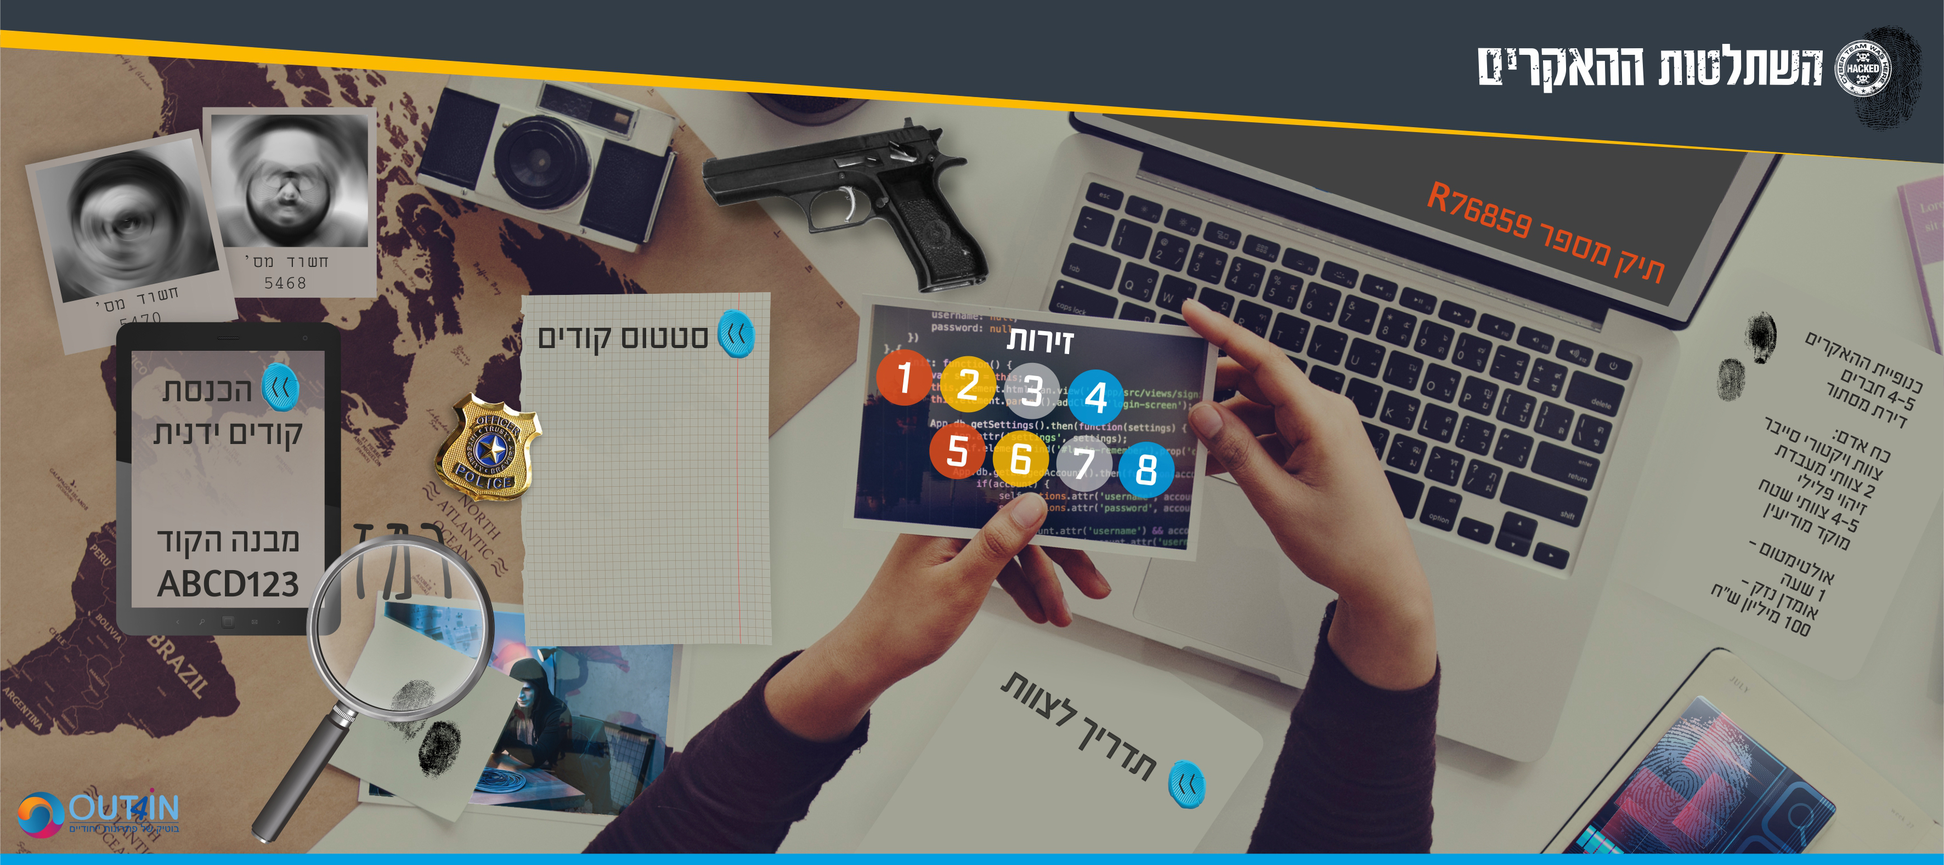
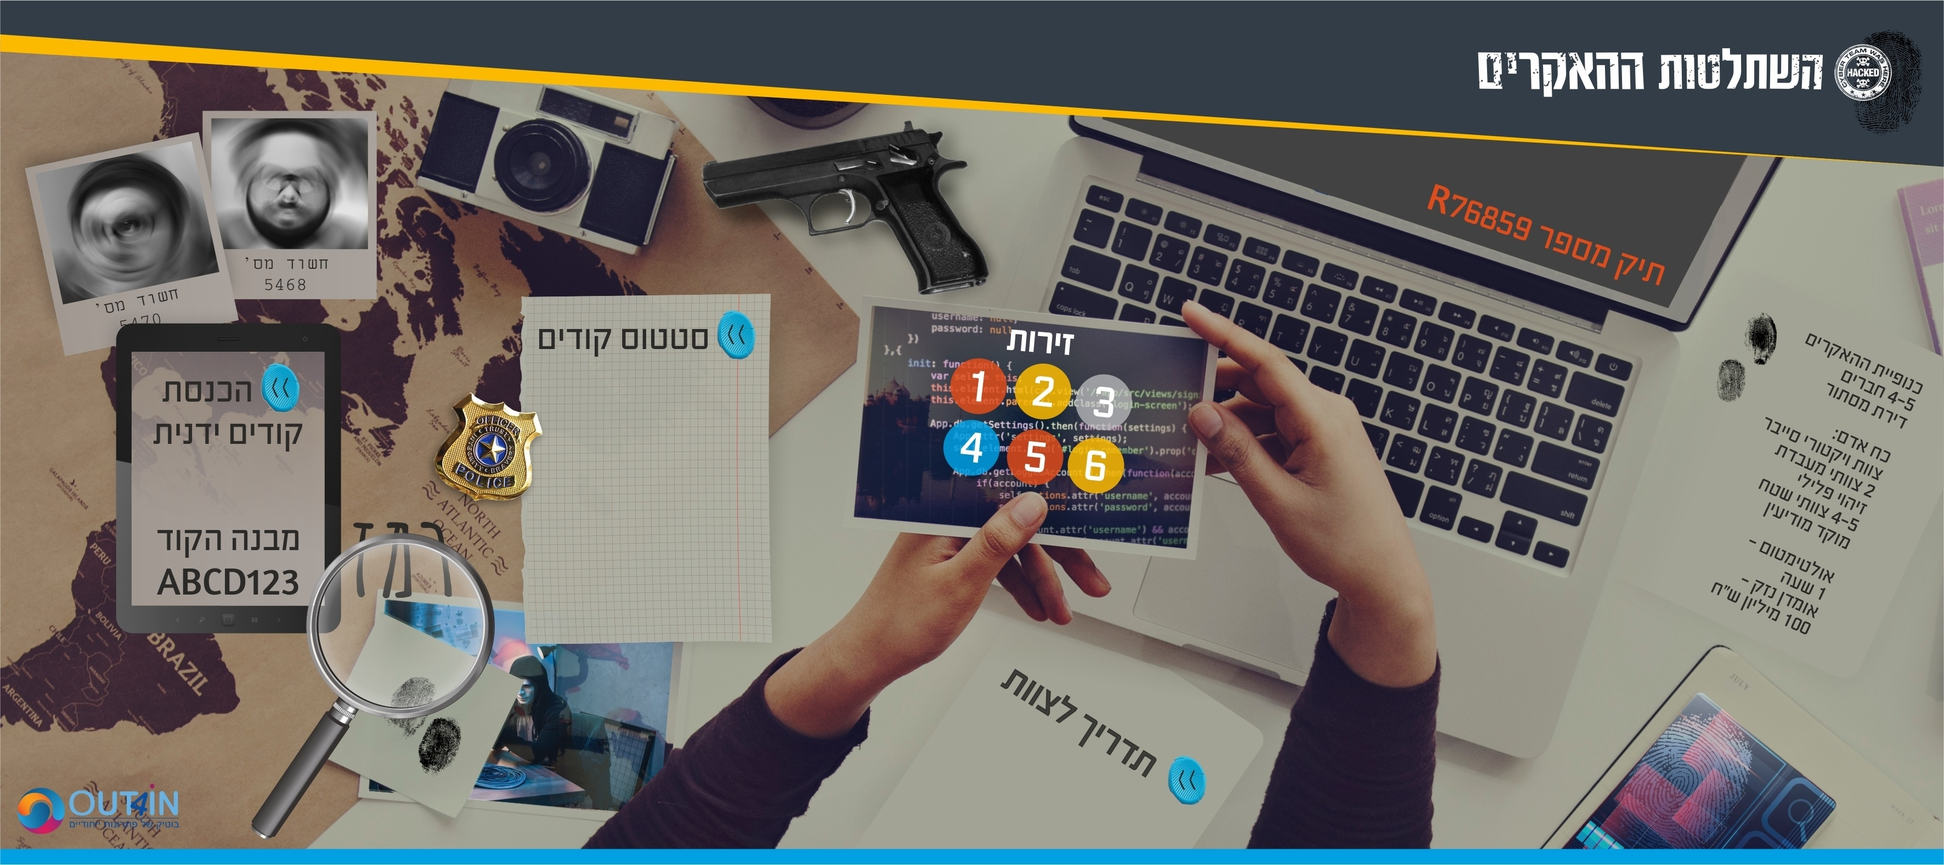
text fixes

diff --git a/onlinear/EscapeZone_Short/Station_6/index.html b/onlinear/EscapeZone_Short/Station_6/index.html
@@ -54,6 +54,49 @@
                 right: 15%;
                 font-size: 5vh;
             }
+            
+            /* The Modal (The text box instead of the basic alert) */
+            .modal {
+                display: none; /* Hidden by default */
+                position: fixed; /* Stay in place */
+                z-index: 1; /* Sit on top */
+                padding-top: 100px; /* Location of the box */
+                left: 0;
+                top: 0;
+                width: 100%; /* Full width */
+                height: 100%; /* Full height */
+                overflow: auto; /* Enable scroll if needed */
+                background-color: rgb(0,0,0); /* Fallback color */
+                background-color: rgba(0,0,0,0.4); /* Black w/ opacity */
+                direction: rtl;
+            }
+
+            /* Modal Content */
+            .modal-content {
+                background-color: #fefefe;
+                margin: auto;
+                padding: 20px;
+                border: 1px solid #888;
+                width: 80%;
+                color: red;
+                font-size: 7.5vh;
+                text-align: center;
+            }
+
+            /* The Close Button */
+            .close {
+                color: #000;
+                float: right;
+                font-size: 9vh;
+                font-weight: bolder;
+            }
+
+            .close:hover,
+            .close:focus {
+                color: #000;
+                text-decoration: none;
+                cursor: pointer;
+            }
         </style>
         <script type="application/javascript">
             localStorage.setItem("reloaded", "false");
@@ -63,7 +106,7 @@
             {
                 var s = "";
                 var val = "";
-                for(var i = 1; i <= 6; i++)
+                for(var i = 1; i <= 8; i++)
                 {
                     s = "for_" + i;
                     val = localStorage.getItem(s);
@@ -196,10 +239,15 @@
             
             function OfferHint()
             {
-                var answer = confirm("ראינו שאתם מתקשים, האם אתם רוצים עזרה?");
+                document.getElementById("myModal").style.display = "block";
+                
+                var clockImg = document.getElementById("clockImg");
+                clockImg.style.display = "none";
+                
+                /*var answer = confirm("ראינו שאתם מתקשים, האם אתם רוצים עזרה?");
                 if(answer)
                 {
-                     var clockImg = document.getElementById("clockImg");
+                    var clockImg = document.getElementById("clockImg");
                     clockImg.style.display = "none";
                     setTimeout(function(){          //To remove image before alert.
                         alert("הספרה השניה (גלגל צהוב) היא 9 – מהי הספרה השלישית? ");
@@ -208,7 +256,7 @@
                 else
                 {
                     setTimeout(OfferHint, 60000);
-                }
+                }*/
             }
             
             function Start()
@@ -234,8 +282,7 @@
                 כמו בתמונה המצורפת - הסכום המשותף הוא 8.<br/>
                 <img src = "img.png" width = "24%" height="35%"><br/>
                 
-                לתיבת הקוד למטה עליכם להכניס את שלושת המספרים בשלשה שמסומנת בחץ שחור ומתחילה בספרה 6  על הגלגל האדום.<br/>
-                כאשר תכניסו את שתי הספרות הנוספות תקבלו את קוד הזירה. <br/>
+                <font color = "red" style="font-weight: bold">עליכם להכניס לתיבת הקוד למטה את שלושת המספרים בשלשה שמסומנת בחץ שחור ומתחילה בספרה 6 על הגלגל האדום.</font><br/>
 
                 <br/><u>רוצים רמז למספר המשותף?</u><br/>
                 לחצו על האייקון של ראש הרובוט ! <a href = "../RobotsGame/enter.html"><img src = "robot.png" width = "14%" height="16%"></a>
@@ -275,6 +322,37 @@
             </div>
         </div>
         
+        <!-- The Modal -->
+        <div id="myModal" class="modal">
+
+          <!-- Modal content -->
+          <div class="modal-content">
+            <span class="close">&times;</span>
+            <p>
+                <font color = "black">רמז: </font><br/>
+                <font size = "6"  style = "font-weight: bold;">הספרה השניה (גלגל צהוב) היא 9 – מהי הספרה השלישית?</font>
+            </p>
+          </div>
+
+        </div>
+        
+        <script>
+            //The modal script
+            var modal = document.getElementById('myModal');
+            var span = document.getElementsByClassName("close")[0];
+            var modal_text = modal.querySelector('p');
+            
+            span.onclick = function() {
+                modal.style.display = "none";
+            }
+
+            // When the user clicks anywhere outside of the modal, close it
+            window.onclick = function(event) {
+                if (event.target == modal) {
+                    modal.style.display = "none";
+                }
+            }
+        </script>
         
         <script>
             /*

diff --git a/onlinear/EscapeZone_Long/Station_6/index.html b/onlinear/EscapeZone_Long/Station_6/index.html
@@ -54,6 +54,49 @@
                 right: 15%;
                 font-size: 5vh;
             }
+            
+            /* The Modal (The text box instead of the basic alert) */
+            .modal {
+                display: none; /* Hidden by default */
+                position: fixed; /* Stay in place */
+                z-index: 1; /* Sit on top */
+                padding-top: 100px; /* Location of the box */
+                left: 0;
+                top: 0;
+                width: 100%; /* Full width */
+                height: 100%; /* Full height */
+                overflow: auto; /* Enable scroll if needed */
+                background-color: rgb(0,0,0); /* Fallback color */
+                background-color: rgba(0,0,0,0.4); /* Black w/ opacity */
+                direction: rtl;
+            }
+
+            /* Modal Content */
+            .modal-content {
+                background-color: #fefefe;
+                margin: auto;
+                padding: 20px;
+                border: 1px solid #888;
+                width: 80%;
+                color: red;
+                font-size: 7.5vh;
+                text-align: center;
+            }
+
+            /* The Close Button */
+            .close {
+                color: #000;
+                float: right;
+                font-size: 9vh;
+                font-weight: bolder;
+            }
+
+            .close:hover,
+            .close:focus {
+                color: #000;
+                text-decoration: none;
+                cursor: pointer;
+            }
         </style>
         <script type="application/javascript">
             localStorage.setItem("reloaded", "false");
@@ -196,10 +239,15 @@
             
             function OfferHint()
             {
-                var answer = confirm("ראינו שאתם מתקשים, האם אתם רוצים עזרה?");
+                document.getElementById("myModal").style.display = "block";
+                
+                var clockImg = document.getElementById("clockImg");
+                clockImg.style.display = "none";
+                
+                /*var answer = confirm("ראינו שאתם מתקשים, האם אתם רוצים עזרה?");
                 if(answer)
                 {
-                     var clockImg = document.getElementById("clockImg");
+                    var clockImg = document.getElementById("clockImg");
                     clockImg.style.display = "none";
                     setTimeout(function(){          //To remove image before alert.
                         alert("הספרה השניה (גלגל צהוב) היא 9 – מהי הספרה השלישית? ");
@@ -208,7 +256,7 @@
                 else
                 {
                     setTimeout(OfferHint, 60000);
-                }
+                }*/
             }
             
             function Start()
@@ -234,8 +282,7 @@
                 כמו בתמונה המצורפת - הסכום המשותף הוא 8.<br/>
                 <img src = "img.png" width = "24%" height="35%"><br/>
                 
-                לתיבת הקוד למטה עליכם להכניס את שלושת המספרים בשלשה שמסומנת בחץ שחור ומתחילה בספרה 6  על הגלגל האדום.<br/>
-                כאשר תכניסו את שתי הספרות הנוספות תקבלו את קוד הזירה. <br/>
+                <font color = "red" style="font-weight: bold">עליכם להכניס לתיבת הקוד למטה את שלושת המספרים בשלשה שמסומנת בחץ שחור ומתחילה בספרה 6 על הגלגל האדום.</font><br/>
 
                 <br/><u>רוצים רמז למספר המשותף?</u><br/>
                 לחצו על האייקון של ראש הרובוט ! <a href = "../RobotsGame/enter.html"><img src = "robot.png" width = "14%" height="16%"></a>
@@ -275,6 +322,37 @@
             </div>
         </div>
         
+        <!-- The Modal -->
+        <div id="myModal" class="modal">
+
+          <!-- Modal content -->
+          <div class="modal-content">
+            <span class="close">&times;</span>
+            <p>
+                <font color = "black">רמז: </font><br/>
+                <font size = "6"  style = "font-weight: bold;">הספרה השניה (גלגל צהוב) היא 9 – מהי הספרה השלישית?</font>
+            </p>
+          </div>
+
+        </div>
+        
+        <script>
+            //The modal script
+            var modal = document.getElementById('myModal');
+            var span = document.getElementsByClassName("close")[0];
+            var modal_text = modal.querySelector('p');
+            
+            span.onclick = function() {
+                modal.style.display = "none";
+            }
+
+            // When the user clicks anywhere outside of the modal, close it
+            window.onclick = function(event) {
+                if (event.target == modal) {
+                    modal.style.display = "none";
+                }
+            }
+        </script>
         
         <script>
             /*

diff --git a/onlinear/EscapeZone_Long/briefing_page/index.html b/onlinear/EscapeZone_Long/briefing_page/index.html
@@ -63,13 +63,13 @@
                 "בעוד שעה יקרוס מרכז התקשורת המרכזי של מדינת ישראל" – הזמן שלכם קצוב ! <br/>
                 צוות ויקטורי סייבר : המשימה שלכם היא לפצח את קוד הוירוס הקטלני שהותירו ההאקרים! <br/>
                 והכל תוך כ 60 דקות מרגע יציאתכם למשימה. <br/>
-                המשטרה בשילוב גורמי חקירה נוספים מצאו 8 זירות בהן נמצאו ממצאים ורמזים. הקוד שהשאירה הכנופיה מורכב מ 8 חלקים. <br/>
-                מהברור הראשוני נראה כי בכל אחת מ8 הזירות עליכם למצוא קוד סודי שמורכב מ 4 אותיות לועזיות ו 3 ספרות (ראו דוגמא בדף הבית – "מבנה הקוד")<br/>
+                המשטרה בשילוב גורמי חקירה נוספים מצאו 6 זירות בהן נמצאו ממצאים ורמזים. הקוד שהשאירה הכנופיה מורכב מ 6 חלקים. <br/>
+                מהברור הראשוני נראה כי בכל אחת מ6 הזירות עליכם למצוא קוד סודי שמורכב מ 4 אותיות לועזיות ו 3 ספרות (ראו דוגמא בדף הבית – "מבנה הקוד")<br/>
                 מסתבר כי הכנופיה כל כך בטוחה כי לא תצליחו למצוא את הקוד הסופי על כן היא החליטה להשתעשע !  <br/>
                 כל הפעילות כולה תתנהל דרך הטלפון הסלולארי. <br/>
                 בכל זירה תקבלו משימה/חידה לפתרון הקוד שלה. <br/>
                 בנוסף תקבלו רמז שיופיע אוטומטית על מסך הסלולארי אחרי 4/4.5 דקות (רמז זה יקדם אתכם לפתרון הקוד). <br/>
-                כאשר יהיו בידכם כל 8 הקודים כנסו (דרך דף הבית) לדף של סטטוס הקודים והמשיכו משם. <br/>
+                כאשר יהיו בידכם כל 6 הקודים כנסו (דרך דף הבית) לדף של סטטוס הקודים והמשיכו משם. <br/>
                 ודאו כי כל המשימות הושלמו (כל הכפתורים ירוקים) ואז לחצו על הכפתור האדום לנטרול הוירוס. <br/>
                 צוותי ויקטורי סייבר, אנחנו סומכים עליכם. המוח שלכם הוא הכוח. צאו לדרך.
             </p>

diff --git a/onlinear/EscapeZone_Short/briefing_page/index.html b/onlinear/EscapeZone_Short/briefing_page/index.html
@@ -63,13 +63,13 @@
                 "בעוד שעה יקרוס מרכז התקשורת המרכזי של מדינת ישראל" – הזמן שלכם קצוב ! <br/>
                 צוות ויקטורי סייבר : המשימה שלכם היא לפצח את קוד הוירוס הקטלני שהותירו ההאקרים! <br/>
                 והכל תוך כ 60 דקות מרגע יציאתכם למשימה. <br/>
-                המשטרה בשילוב גורמי חקירה נוספים מצאו 8 זירות בהן נמצאו ממצאים ורמזים. הקוד שהשאירה הכנופיה מורכב מ 8 חלקים. <br/>
-                מהברור הראשוני נראה כי בכל אחת מ8 הזירות עליכם למצוא קוד סודי שמורכב מ 4 אותיות לועזיות ו 3 ספרות (ראו דוגמא בדף הבית – "מבנה הקוד")<br/>
+                המשטרה בשילוב גורמי חקירה נוספים מצאו 6 זירות בהן נמצאו ממצאים ורמזים. הקוד שהשאירה הכנופיה מורכב מ 6 חלקים. <br/>
+                מהברור הראשוני נראה כי בכל אחת מ6 הזירות עליכם למצוא קוד סודי שמורכב מ 4 אותיות לועזיות ו 3 ספרות (ראו דוגמא בדף הבית – "מבנה הקוד")<br/>
                 מסתבר כי הכנופיה כל כך בטוחה כי לא תצליחו למצוא את הקוד הסופי על כן היא החליטה להשתעשע !  <br/>
                 כל הפעילות כולה תתנהל דרך הטלפון הסלולארי. <br/>
                 בכל זירה תקבלו משימה/חידה לפתרון הקוד שלה. <br/>
                 בנוסף תקבלו רמז שיופיע אוטומטית על מסך הסלולארי אחרי 4/4.5 דקות (רמז זה יקדם אתכם לפתרון הקוד). <br/>
-                כאשר יהיו בידכם כל 8 הקודים כנסו (דרך דף הבית) לדף של סטטוס הקודים והמשיכו משם. <br/>
+                כאשר יהיו בידכם כל 6 הקודים כנסו (דרך דף הבית) לדף של סטטוס הקודים והמשיכו משם. <br/>
                 ודאו כי כל המשימות הושלמו (כל הכפתורים ירוקים) ואז לחצו על הכפתור האדום לנטרול הוירוס. <br/>
                 צוותי ויקטורי סייבר, אנחנו סומכים עליכם. המוח שלכם הוא הכוח. צאו לדרך.
             </p>

diff --git a/onlinear/EscapeZone_Long/Station_7/index.html b/onlinear/EscapeZone_Long/Station_7/index.html
@@ -226,8 +226,9 @@
             </div>
             
             <p id="zone_text">
-                עזרו למשטרה למצוא את קלסתרון ראש הכנופיה. חפשו וסרקו באמצעות הטלפון הסלולארי 16 ברקודים המסומנים בריבוע אדום.<br/>
-                <font color = "red" style="font-weight: bold">הערה חשובה: עליכם לסרוק את הברקודים רק לפי סדר המספרים מ 1-16.</font><br/>
+                עזרו למשטרה למצוא את קלסתרון ראש הכנופיה. חפשו וסרקו באמצעות הטלפון הסלולארי 12 ברקודים המסומנים בריבוע אדום.<br/>
+                <font color = "red" style="font-weight: bold">הברקודים נמצאים בכל רחבי המתחם וגם על החפצים.</font><br/>
+                הערה חשובה: עליכם לסרוק את הברקודים רק לפי סדר המספרים מ 1-12. <br/>
                 בתום הסריקה תקבלו את כל החלקים בסלולארי.<br/>
                 כדי להרכיב את הקלסתרון עליכם ללחוץ כל פעם על שני חלקים שיחליפו ביניהם מקום עד להרכבת התמונה במלואה.<br/>
             </p>

diff --git a/onlinear/EscapeZone_Short/Station_4/index.html b/onlinear/EscapeZone_Short/Station_4/index.html
@@ -226,8 +226,9 @@
             </div>
             
             <p id="zone_text">
-                עזרו למשטרה למצוא את קלסתרון ראש הכנופיה. חפשו וסרקו באמצעות הטלפון הסלולארי 16 ברקודים המסומנים בריבוע אדום.<br/>
-                <font color = "red" style="font-weight: bold">הערה חשובה: עליכם לסרוק את הברקודים רק לפי סדר המספרים מ 1-16.</font><br/>
+                עזרו למשטרה למצוא את קלסתרון ראש הכנופיה. חפשו וסרקו באמצעות הטלפון הסלולארי 12 ברקודים המסומנים בריבוע אדום.<br/>
+                <font color = "red" style="font-weight: bold">הברקודים נמצאים בכל רחבי המתחם וגם על החפצים.</font><br/>
+                הערה חשובה: עליכם לסרוק את הברקודים רק לפי סדר המספרים מ 1-12. <br/>
                 בתום הסריקה תקבלו את כל החלקים בסלולארי.<br/>
                 כדי להרכיב את הקלסתרון עליכם ללחוץ כל פעם על שני חלקים שיחליפו ביניהם מקום עד להרכבת התמונה במלואה.<br/>
             </p>
